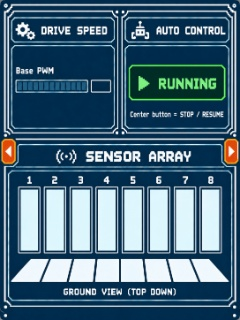
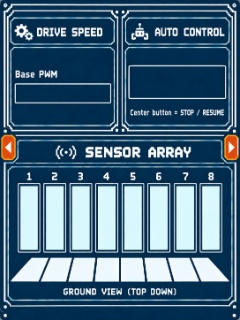
added the speed changing in the UI

diff --git a/esp32_transmitter/src/transmit_data.c b/esp32_transmitter/src/transmit_data.c
@@ -114,6 +114,7 @@ void process_arrow_keys(data_packet_t *packet) {
                 switch(hovered_mode) {
                     case MANUAL_MODE:
                         //set the current page to the manual page
+                        auto_running = false;
                         failsafe_flag = false; //reset the flag so we don't trip from the time browsing the menu
                         last_user_active_time = pdTICKS_TO_MS(xTaskGetTickCount());
                         last_time_rx = pdTICKS_TO_MS(xTaskGetTickCount());
@@ -121,6 +122,9 @@ void process_arrow_keys(data_packet_t *packet) {
                         ESP_LOGI(TAG, "Entering Manual Mode Dashboard");
                         break;
                     case AUTO_MODE:
+                    //set the speed to 50%
+                        current_speed = 128;
+                        auto_running = false; //ensure the robot doesn't start moving on its own.
                         current_page = PAGE_AUTO;
                         ESP_LOGI(TAG, "Entering Auto Mode Dashboard");
                         break;
@@ -219,6 +223,7 @@ void process_arrow_keys(data_packet_t *packet) {
             break;
         //imu page
         case PAGE_AUTO:
+            
             if (clicked_left) {
                 auto_running = false;
                 current_page = PAGE_MENU;
@@ -236,6 +241,27 @@ void process_arrow_keys(data_packet_t *packet) {
                 auto_running = !auto_running;
                 //use the speaker 
                 speaker_pattern(1, 40, 0);
+            }
+
+            else if (clicked_up) {
+                //need to increase the speed
+                if (current_speed <= 255 - 13) {
+                    //increase the speed
+                    current_speed +=13;
+                }
+                else {
+                    //set the max speed to 255
+                    current_speed = 255;
+                }
+            }
+            else if (clicked_down) {
+                if (current_speed >= 13) {
+                    current_speed -=13;
+                }
+                else {
+                    //cap the speed
+                    current_speed = 0;
+                }
             }
 
             break;

diff --git a/esp32_transmitter/src/pretty_effect.c b/esp32_transmitter/src/pretty_effect.c
@@ -342,6 +342,29 @@ static inline uint16_t apply_overlay(int x, int y, uint16_t bg_pixel, uint16_t h
 
     // 4. Auto Mode Page dynamic button
     if (current_page == PAGE_AUTO) {
+
+
+        //need to add the speed changing as we change the numbers
+        char speed_str[8];
+        uint8_t spd_pct = metrics_get_speed_percent();
+
+        snprintf(speed_str, sizeof(speed_str), "%u%%", spd_pct);
+
+        int spd_len = strlen(speed_str);
+        int spd_x0 = 65-(spd_len*6)/2;
+        int spd_y0 = 90;
+
+          if (y >= spd_y0 && y < spd_y0 + 7 && x >= spd_x0 && x < spd_x0 + (spd_len * 6)) {
+            int char_idx = (x - spd_x0) / 6;
+            int char_x0 = spd_x0 + char_idx * 6;
+            char c = speed_str[char_idx];
+
+            if (font5x7_get_pixel(c, char_x0, spd_y0, x, y)) {
+                return COLOR_TEXT_CYAN; // #00FFFF Electric Cyan text
+            }
+        }
+
+
         // Shifted down by +10 pixels: X [126 to 228], Y [54 to 98]
         if (x >= 126 && x <= 228 && y >= 54 && y <= 98) {
             
@@ -367,7 +390,8 @@ static inline uint16_t apply_overlay(int x, int y, uint16_t bg_pixel, uint16_t h
                         return SWAP16(0x07E0);
                     }
                 }
-            } else {
+            } 
+            else {
                 if (x >= 142 && x <= 148 && y >= 73 && y <= 79) {
                     return SWAP16(0xF800);
                 }
@@ -379,7 +403,8 @@ static inline uint16_t apply_overlay(int x, int y, uint16_t bg_pixel, uint16_t h
             
             if (auto_running) {
                 return is_border ? SWAP16(0x07E0) : SWAP16(0x01E0);
-            } else {
+            } 
+            else {
                 return is_border ? SWAP16(0xF800) : SWAP16(0x3800);
             }
         }

diff --git a/esp32_transmitter/src/trans_main.c b/esp32_transmitter/src/trans_main.c
@@ -112,7 +112,8 @@ void app_main(void) {
 
 
         //read the buttons first, and we sample the 5 push buttons with the debounce algo 
-        packet.button_data = read_buttons();
+        uint8_t raw_buttons = read_buttons();
+        packet.button_data = raw_buttons;
 
         //call the new arrow and mode processor, then from reading the buttons we know how to process 
         //the arrow keys
@@ -158,7 +159,8 @@ void app_main(void) {
             packet.speed = current_speed;
         }
 
-        speaker_update(packet.button_data);
+        // Always beep the speaker on real physical button presses (even in menu/auto)
+        speaker_update(raw_buttons);
 
         // Transmit at a steady 40 Hz (every 25ms)
         uint32_t now = pdTICKS_TO_MS(xTaskGetTickCount());
